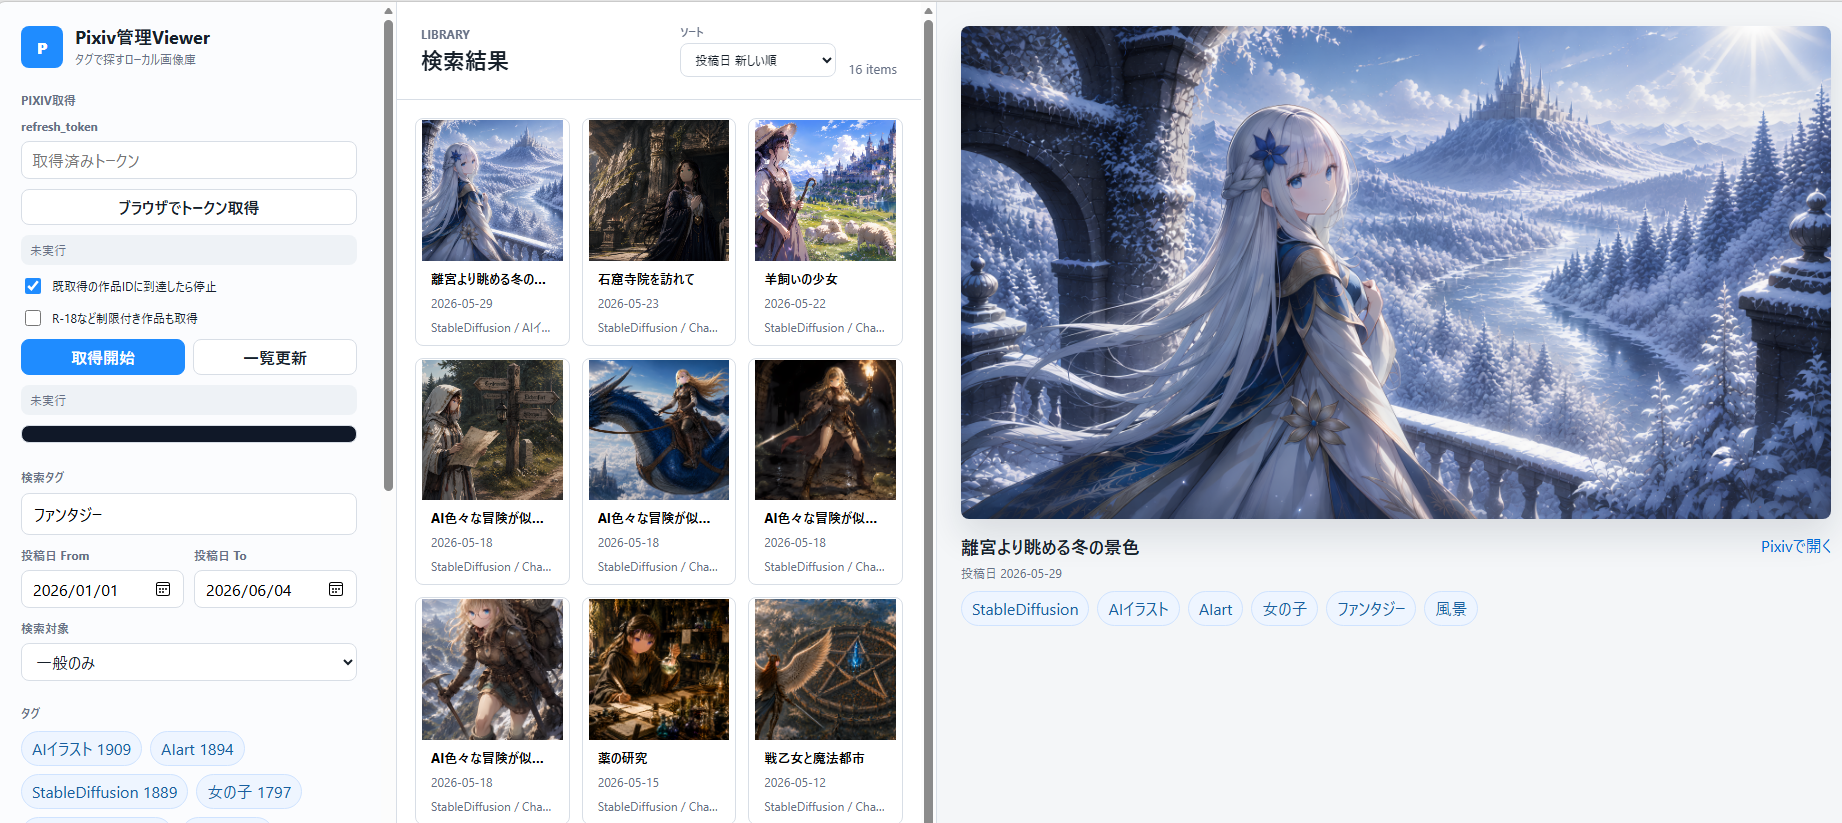
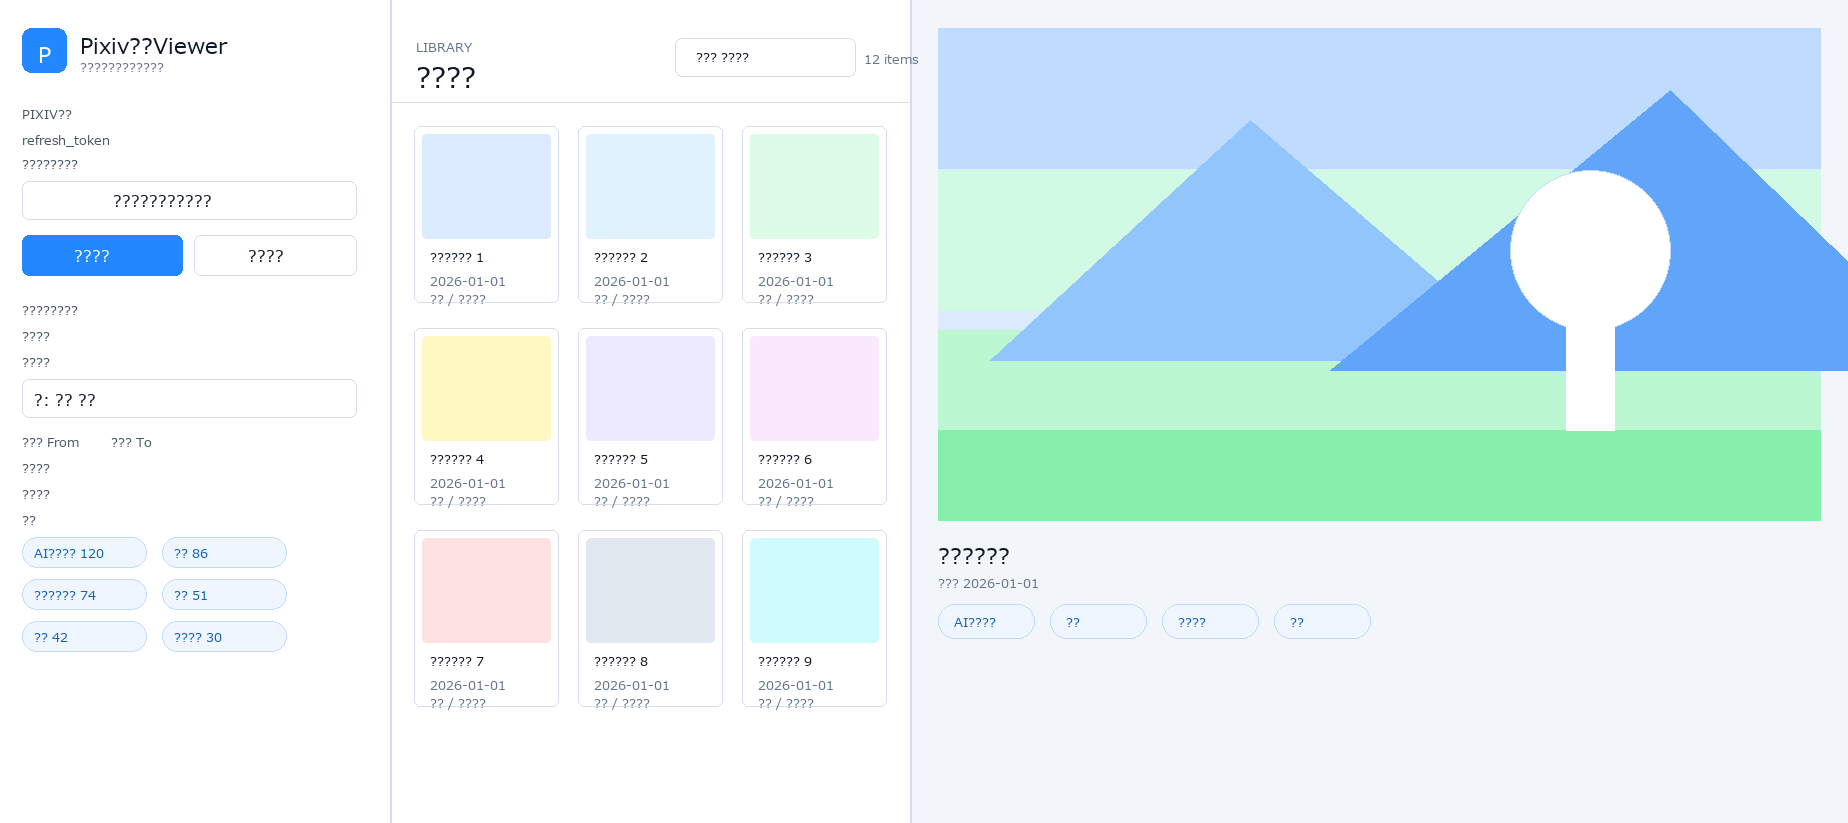
Address public separation review items

diff --git a/static/app.js b/static/app.js
@@ -1,4 +1,4 @@
-const tagInput = document.querySelector("#tagInput");
+const tagInput = document.querySelector("#tagInput");
 const tagChips = document.querySelector("#tagChips");
 const gallery = document.querySelector("#gallery");
 const viewer = document.querySelector("#viewer");

diff --git a/static/index.html b/static/index.html
@@ -1,4 +1,4 @@
-<!doctype html>
+<!doctype html>
 <html lang="ja">
   <head>
     <meta charset="utf-8" />

diff --git a/static/styles.css b/static/styles.css
@@ -1,4 +1,4 @@
-:root {
+:root {
   color-scheme: light;
   --bg: #f4f6f8;
   --panel: #ffffff;

diff --git a/pixiv_library/downloader.py b/pixiv_library/downloader.py
@@ -33,7 +33,14 @@ def fetch_work(client: object, work_id: int | str, *, user_id: str, user_name: s
     return work_from_illust(detail.illust, user_id=user_id, user_name=user_name)
 
 
-def save_work_sidecar(work: PixivWork, image_path: Path, page_index: int) -> None:
+def save_work_sidecar(
+    work: PixivWork,
+    image_path: Path,
+    page_index: int,
+    *,
+    owner_type: str = "self",
+    source_user_id: str | None = None,
+) -> None:
     image_path.with_suffix(image_path.suffix + ".json").write_text(
         json.dumps(
             {
@@ -45,8 +52,8 @@ def save_work_sidecar(work: PixivWork, image_path: Path, page_index: int) -> Non
                 "source_url": work.source_url,
                 "posted_at": work.posted_at,
                 "restrict_level": work.restrict_level,
-                "owner_type": "self",
-                "source_user_id": work.user_id,
+                "owner_type": owner_type,
+                "source_user_id": source_user_id or work.user_id,
                 "tags": work.tags,
             },
             ensure_ascii=False,
@@ -56,15 +63,45 @@ def save_work_sidecar(work: PixivWork, image_path: Path, page_index: int) -> Non
     )
 
 
-def download_work_assets(client: object, work: PixivWork) -> list[tuple[Path, WorkImage, bool]]:
+def download_work_asset(
+    client: object,
+    work: PixivWork,
+    image: WorkImage,
+    *,
+    owner_type: str = "self",
+    source_user_id: str | None = None,
+) -> tuple[Path, WorkImage, bool]:
     IMAGE_DIR.mkdir(parents=True, exist_ok=True)
+    target = IMAGE_DIR / image.file_name
+    existed_before = target.exists()
+    if not existed_before:
+        client.download(image.url, path=str(IMAGE_DIR), name=image.file_name)
+    save_work_sidecar(
+        work,
+        target,
+        image.page_index,
+        owner_type=owner_type,
+        source_user_id=source_user_id,
+    )
+    return target, image, existed_before
+
+
+def download_work_assets(
+    client: object,
+    work: PixivWork,
+    *,
+    owner_type: str = "self",
+    source_user_id: str | None = None,
+) -> list[tuple[Path, WorkImage, bool]]:
     results = []
     for image in work.images:
-        target = IMAGE_DIR / image.file_name
-        existed_before = target.exists()
-        if not existed_before:
-            client.download(image.url, path=str(IMAGE_DIR), name=image.file_name)
-        save_work_sidecar(work, target, image.page_index)
-        results.append((target, image, existed_before))
+        results.append(
+            download_work_asset(
+                client,
+                work,
+                image,
+                owner_type=owner_type,
+                source_user_id=source_user_id,
+            )
+        )
     return results
-

diff --git a/pixiv_library/repository.py b/pixiv_library/repository.py
@@ -37,6 +37,7 @@ def upsert_work_image(
     file_path: Path,
     page_index: int,
     owner_type: str = "self",
+    source_user_id: str | None = None,
 ) -> int:
     save_user_master(conn, work.user_id, work.user_name)
     return upsert_image(
@@ -52,6 +53,5 @@ def upsert_work_image(
         restrict_level=work.restrict_level,
         tags=work.tags,
         owner_type=owner_type,
-        source_user_id=work.user_id,
+        source_user_id=source_user_id or work.user_id,
     )
-
